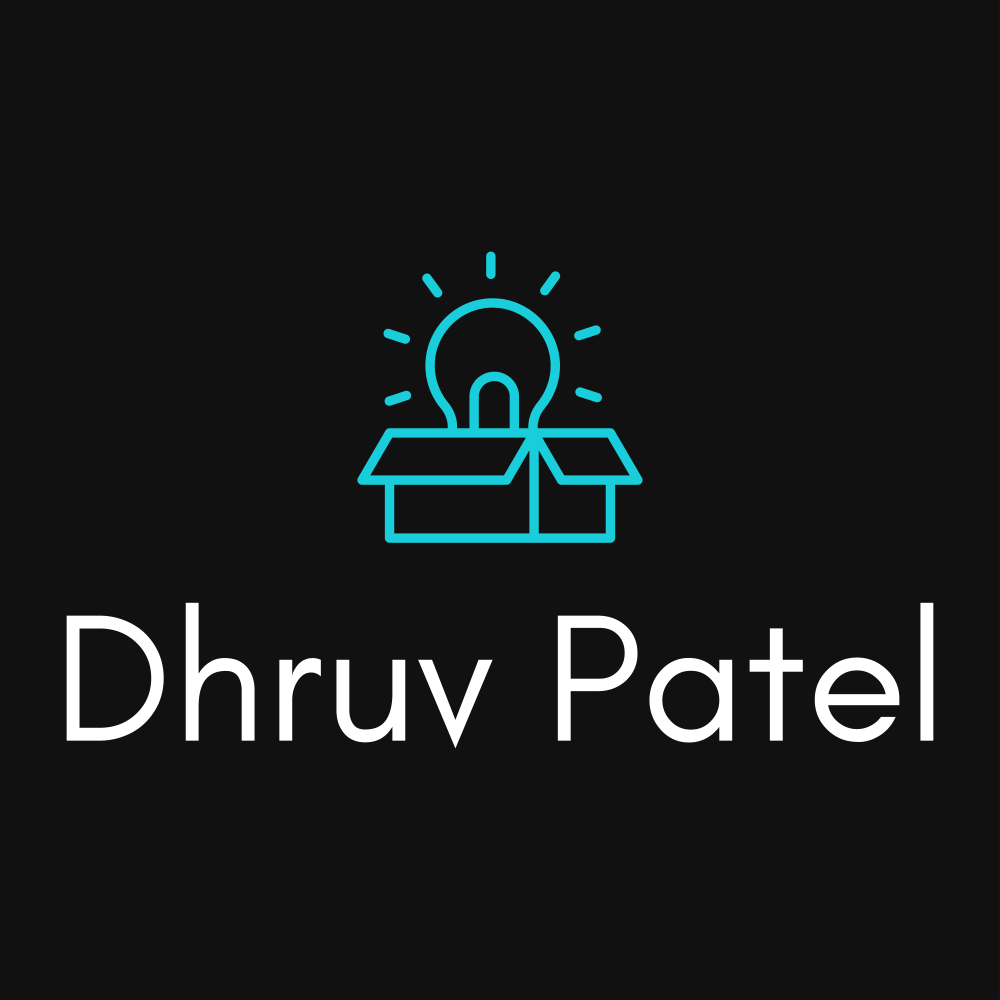
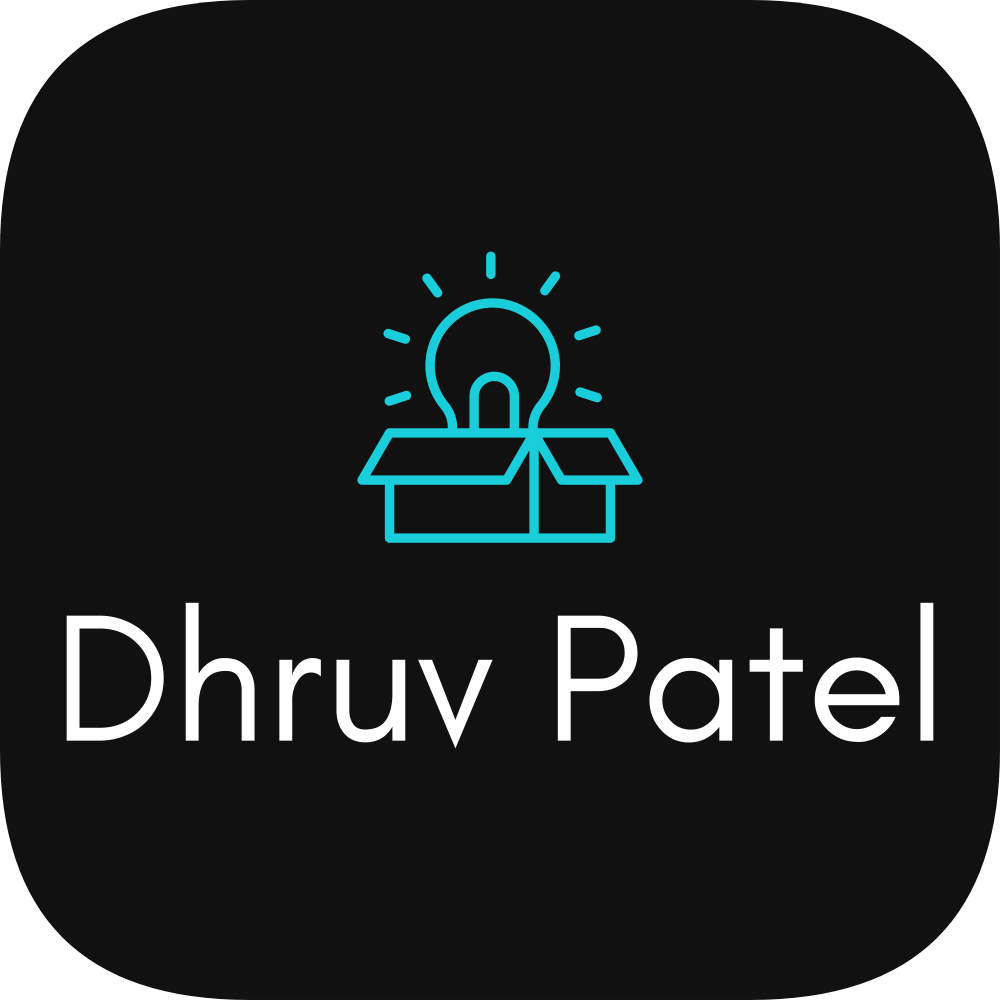
Changed the overall look of the website.

diff --git a/contact.html b/contact.html
@@ -34,7 +34,7 @@
             <div class="contact-me">
                 <h2>Contact Me</h2>
                 <h1 id="error_message"></h1>
-                <form id="myform" onsubmit="return validation();">
+                <form action="POST" data-netlify="true" id="myform" onsubmit="return validation();">
                     <div class="input-fields">
                         <div class="items">
                             <input type="text" placeholder="Name" id="name" class="input">
@@ -50,6 +50,9 @@
                         </div>
                         <div class="items">
                             <textarea id="message" placeholder="Message" class="input"></textarea>
+                        </div>
+                        <div class="items">
+                            <div data-netlify-recaptcha="true"></div>
                         </div>
                     </div>
                     <div class="btn"><input type="submit" value="Let's Talk"></div>

diff --git a/Medico.html b/Medico.html
@@ -38,8 +38,8 @@
                         <h3>About the Project</h3>
                         <div>
                             <p>Text about the project.</p>
-                            <p><a href="medico.docx">System Analysis and Design Document</a></p>
-                            <p><a href="medico.ppt">System Analysis and Design Presentation</a></p>
+                            <!-- <p><a href="medico.docx">System Analysis and Design Document</a></p>
+                            <p><a href="medico.ppt">System Analysis and Design Presentation</a></p> -->
                         </div>
                     </article>
             </section>

diff --git a/index.html b/index.html
@@ -44,11 +44,6 @@
                             <h3>Projects</h3>
                         </div>
                     </a>
-                    <a href="portfolio.html">
-                        <div class="index-boxlink-rectangle">
-                            <h3>Portfolio</h3>
-                        </div>
-                    </a>
                     <a href="about.html">
                         <div class="index-boxlink-rectangle">
                             <h3>About Me</h3>

diff --git a/stylesheet.css b/stylesheet.css
@@ -308,6 +308,7 @@ header .header-brand{
     }
     .index-boxlink-rectangle{
         width: calc(30% - 10px) !important;
+        border-radius: 25px;
     }
     .index-links div h3{
         text-align: center;
@@ -364,6 +365,7 @@ header .header-brand{
     height: 150px;
     margin: 20px 20px 0px;
     background-color: #111;
+    border-radius: 25px;
 }
 .projects-links .projects-link p{ 
     padding-top: 32%;
